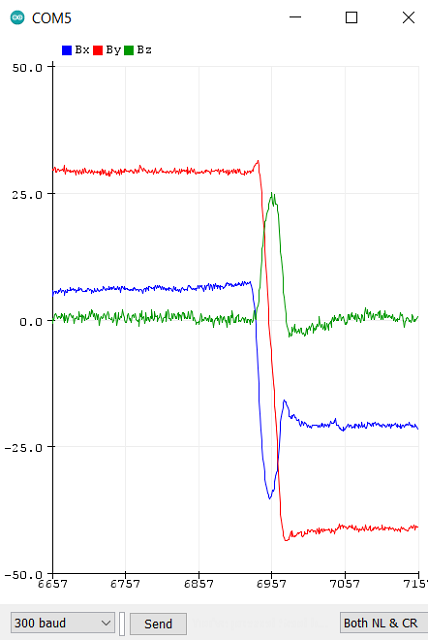
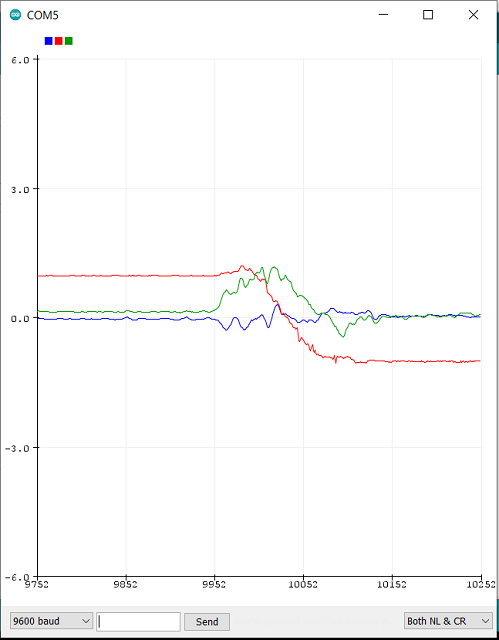
Oct10edits (#29)
* Add files via upload

serial monitor, 'one second delay'

* Delete one second delay.PNG

* Add files via upload

image: one second delay

* Update implementation.md

* Update implementation.md

* Update implementation.md

* Update implementation.md

* Update implementation.md

* Update implementation.md

* Update implementation.md

* Update implementation.md

* Update implementation.md

* Update implementation.md

* Delete Sm-device orientation.png

* update sm-device-orientation PNG file (acc)

diff --git a/implementation.md b/implementation.md
@@ -37,7 +37,7 @@ _skip to
 15. Figured out how to set up Ready/Resting states in Arduino Sketch, and display in Monitor. (in progress)
 16. LEARNED that it's easy to mess up in GitHub desktop, so _be careful_
 17. LEARNED Cursory principles of electronics from __LinkedIn Learning__.
-18. **Arduino sketch** baseline created for IMU - _golf-swing-acc_ ([ongoing improvements](#updating-the-arduino-nano-33-ble)) and also, **made sure not to overcomplicate it** and kept it SIMPLE
+18. **Arduino sketch** created for Accelerometer - _golf-swing-acc_ ([here](#updating-the-arduino-nano-33-ble)) and kept it **simple**
 19. **GitHub Markdown** Learned styling for tables, images and code block
 20. DOCUMENTED progress towards **battery** solution [_here_](activity.md#battery-info) (ongoing)
 
@@ -136,9 +136,10 @@ What is Resting state meant for? It's meant to sense when the club is in the bag
   -  _**Resting**_ is when the sensor reads that its orientation is negative (-.85) 
 
 ### Edit the sketch. 
-- Open _SimpleAccelerometer_ from the Example files in the Arduino_LSM9DS1 folder **and Save as...** _golf-swing-acc_
-- There are no changes except for within `void loop()`
-- In `void loop()`, add the _if/else_ statements as shown here 
+- Find _SimpleAccelerometer_ from the Example files in the Arduino_LSM9DS1 folder
+- **Save it as** _golf-swing-acc_
+- There are no changes to it except for within the `void loop()`
+  - Add the _if-else_ statements as shown 
 #### Here's the new _LOOP_:
 ```
 void loop() {
@@ -169,19 +170,16 @@ void loop() {
   }
 ```
 
-## Watch the Serial Monitor:
-<p align="center"><img src="http://some_place.com/image.png" /></p>
+#### Serial Monitor result:
+<img src="images/one second delay.PNG" width="50%"/>
 
-## To do:
-- **Set up device precisely as described on this page**
-- **Screenshot** the Serial Monitor display for an example (done but not here yet) 
-- AND FINALLY, **verify** that what's in the [Conclusion](#conclusion) is actually accomplished and true (true, but exception has been noted)
+#
 #
 ### Sections of this page:
 - First part is assembling the device on the stick. (done)
 - Second part is the Arduino IDE. (code is pasted here)
-- Third, make the monitor show "Ready" state. (got screenshot, must paste)
-- Finally, because of the clarity of the section so far, that's the end of this page. (until BLE is fully written)
+- Third, make the monitor show "Ready" state. (done)
+
 #
 ## Conclusion:
 This section was about setting up the Accelerometer, physically and with the IDE, so that it performs as expected.
@@ -192,7 +190,6 @@ The goal was to basically create on/off states, accomplished here by using a thr
 - While the golf club in the Ready position, all the readings are streaming through (acc readings for now)
 - Swinging the club around won't put it into that Resting state unless it registers that particular state of inertia below _-0.85_. 
   - While there may be a risk of hitting that threshold while the club is in play, some cursory testing shows that it's possible the risk is low and `(y<-0.85)` doesn't happen or it doesn't hit the delay for some reason.
-- Before moving forward to **BLE** section, it's important that the Sketch has been created 100% as planned, the code documented, and the resulting Serial Monitor screen shown as an example. (done)
 
 # [NEXT STEPS -->](activity.md)
 ### Implementing BLE
